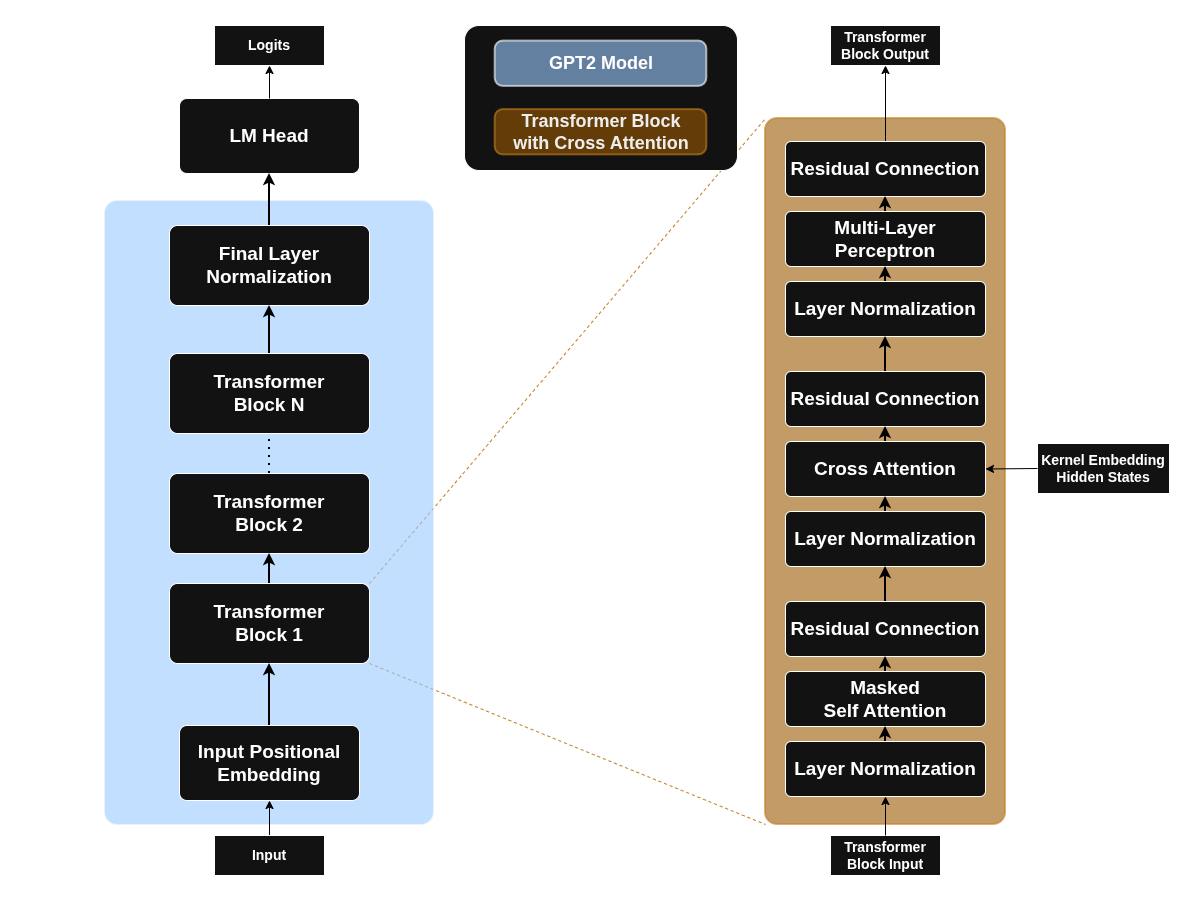
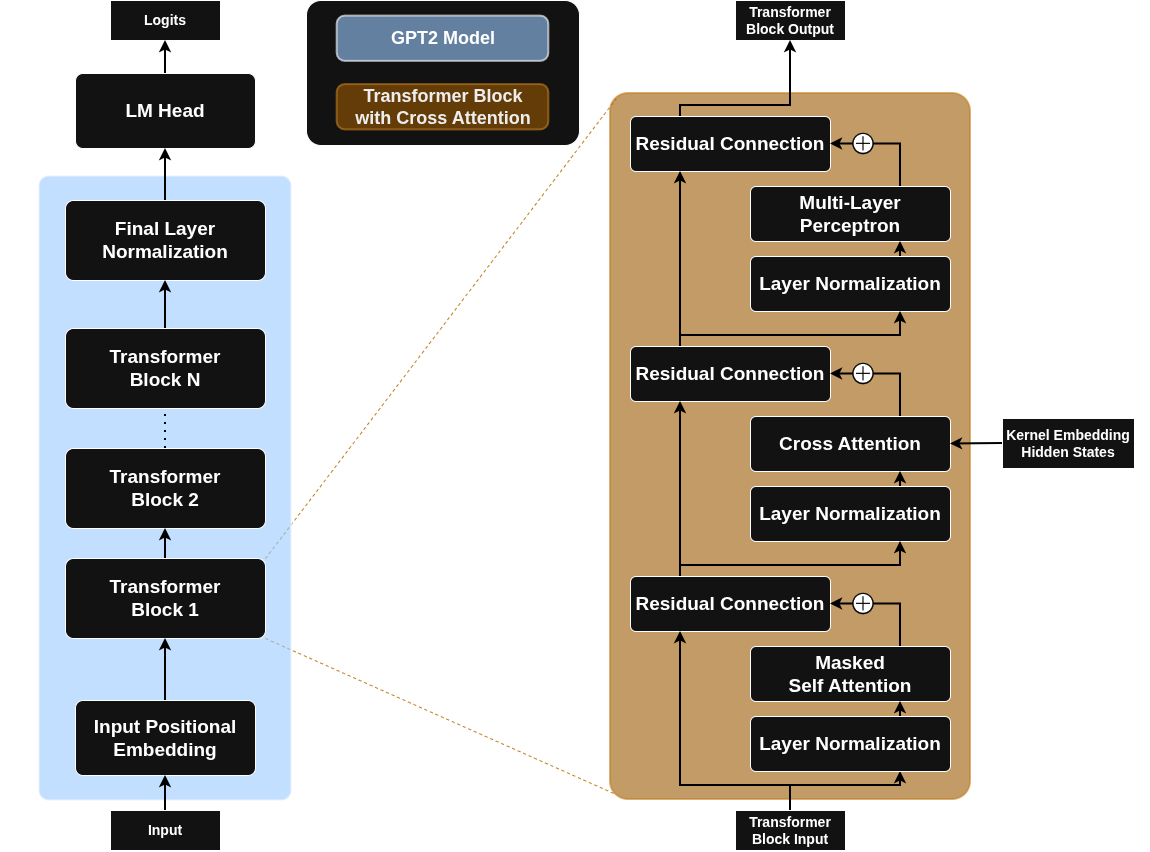
Updated LTLModel_Architecture.png diagram

diff --git a/main.tex b/main.tex
@@ -380,7 +380,15 @@
 
     We have established that the embedding's magnitude encodes information about the target formula's satisfaction variance, but that doesn't establish whether the model's architecture allows it to capture this information. So, to get an answer to the normalization question, we must look at precisely how the transformer model actually incorporates this conditioning signal into the generation process. To understand this we follow the semantic embedding through the model, from first contact with the decoder to the final sequence generation. 
         
-    We start at the beginning. As described in section~\ref{sec:model_architecture}, the $M$-dimensional semantic embedding vector is injected into the cross-attention block depicted in figure~\ref{fig:ltl_model_architecture} as a \emph{single} conditioning token. The downstream result of this is that at every position $t$ in the model's hidden states are updated by the same value vector $\bm V_{sem}$ through the residual connection, where the magnitude of this update is  bounded by the magnitude of the input: $\Vert \bm V_{sem} \Vert \leq \Vert \bm W^{cross}_v \Vert \, \Vert \emb(\phi) \Vert$. For a trained model, the $\bm{W}^{cross}_v$ is fixed between different rounds of generation. So the difference in the magnitude of the update between any two formulae is strictly down to the differences in magnitudes of the embeddings of these formulae. 
+    We start at the beginning. As described in section~\ref{sec:model_architecture}, the $M$-dimensional semantic embedding vector is injected into the cross-attention block depicted in figure~\ref{fig:ltl_model_architecture} as a \emph{single} conditioning token. The downstream result of this is that at every position $t$ in the model's hidden states are updated by the same value vector $\bm V_{sem}$ through the residual connection, where the magnitude of this update is  bounded by the magnitude of the input: $\Vert \bm V_{sem} \Vert \leq \Vert \bm W^{cross}_v \Vert \, \Vert \emb(\phi) \Vert$. For a trained model, the $\bm{W}^{cross}_v$ is fixed between different rounds of generation. So the difference in the magnitude of the update between any two formulae is strictly down to the differences in magnitudes of the embeddings of these formulae. In essence then, the cross-attention part of the transformer block simply adds an update to the 
+
+    $$
+    \begin{aligned}
+    \bm{x} &\leftarrow \bm{x} + \mathrm{SelfAttn}(\mathrm{LN}1(\bm{x})) \\
+    \bm{x} &\leftarrow \bm{x} + \mathrm{CrossAttn}(\mathrm{LN}{c}(\bm{x}),d \emb(\phi)) \;=\; \bm{x} + \bm{u}_\ell(\phi) \\
+    \bm{x} &\leftarrow \bm{x} + \mathrm{MLP}(\mathrm{LN}_2(\bm{x}))
+    \end{aligned}
+    $$
     
     
     
